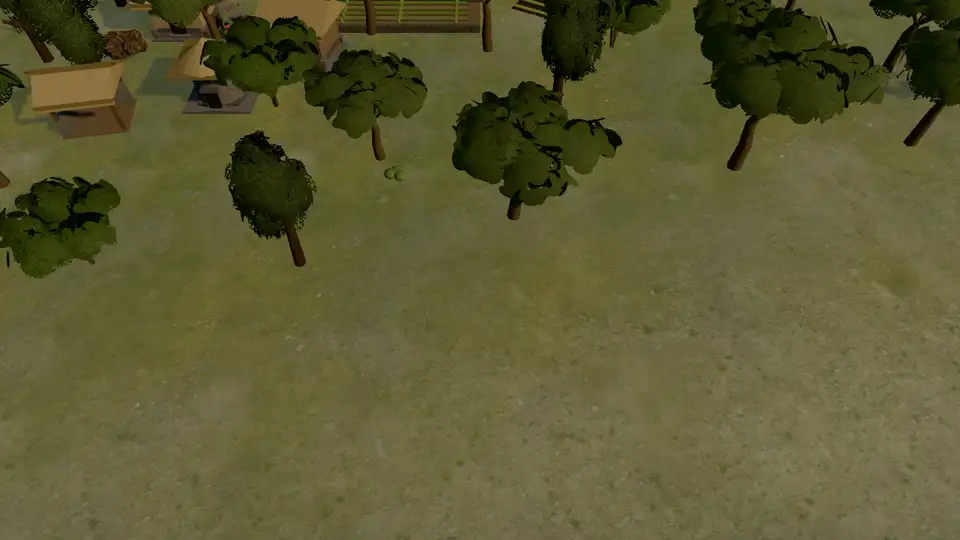
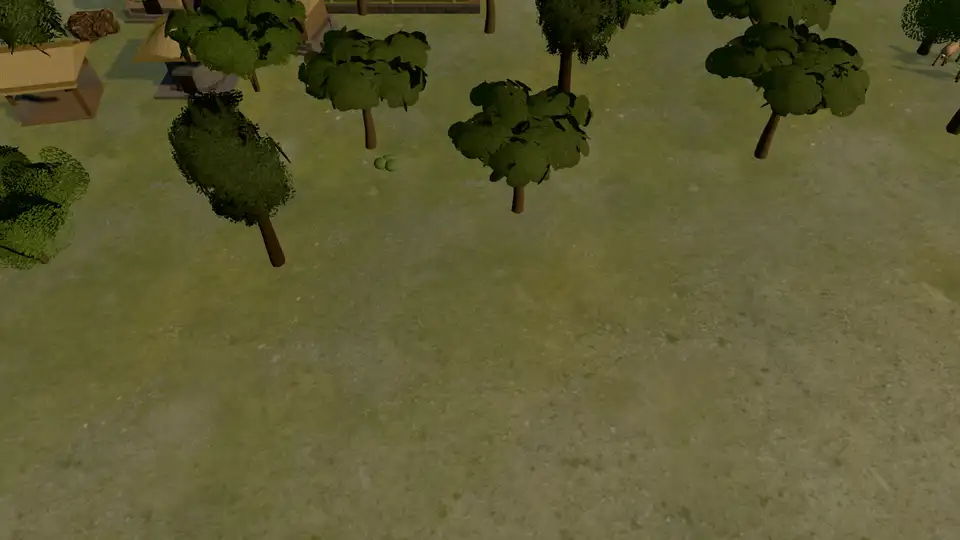
fix(tambotoco): fit the E3a kit under the unchanged scene caps
The E2b late scene already sat at the cap, so the highland kit needed an
offset. The pilot pays for it from its own ground cover: Tambotoco drops
to a 0.08 ichu stand (1,280 tufts) and the kit LOD0 radius is 14 m. The
pebble/gravel species leave the budget; E3b restores rock detail as props.

Both gates now pass without raising a cap:
- structural 422,864/273 opening and 630,750/356 late (kit 9,352/9 and
  34,306/12);
- frames scene 448,194/269 (34 FPS) and 656,578/359 (31 FPS).
The complete render still adds the shadow and refraction passes.

Evidence recaptured as e3a8; docs share the measured numbers.

Changed region(s): [[0.0, 0.0, 1.0, 0.5333], [0.9688, 0.5037, 1.0, 0.5333], [0.6875, 0.6222, 0.7188, 0.6519]]

diff --git a/tests/campaign-profiles.test.ts b/tests/campaign-profiles.test.ts
@@ -101,8 +101,8 @@ describe('campaign map profiles', () => {
     expect(map.vegetation.variants.pacay).toBeGreaterThan(0);
     expect(map.vegetation.variants.broad ?? 0).toBe(0);
     expect(map.vegetation.variants.needle ?? 0).toBe(0);
-    // E3a keeps the E2b ground-cover budget and only changes the species mix.
-    expect(map.vegetation.groundCover).toBe(0.2);
+    // E3a trims the instance budget to fund the kit and shifts the mix to ichu.
+    expect(map.vegetation.groundCover).toBe(0.08);
     expect(map.vegetation.groundCoverWeights?.ichu).toBeGreaterThan(map.vegetation.groundCoverWeights?.grass ?? 0);
   });
 

diff --git a/src/campaign/defs/missions/m_tambotoco.ts b/src/campaign/defs/missions/m_tambotoco.ts
@@ -58,8 +58,8 @@ export const mTambotoco: MissionDef = {
     vegetationKit: 'andes',
     vegetation: {
       density: 0.22,
-      groundCover: 0.2,
-      groundCoverWeights: { grass: 0.7, ichu: 1.6, pebble: 0.15, gravel: 0.15 },
+      groundCover: 0.08,
+      groundCoverWeights: { grass: 0, ichu: 1.6, pebble: 0, gravel: 0 },
       variants: { molle: 0.55, pacay: 0.25, sauce: 0.2, broad: 0, needle: 0 },
     },
     resources: { tree: 0.22 },

diff --git a/src/rendering/vegetationKit.ts b/src/rendering/vegetationKit.ts
@@ -104,7 +104,7 @@ export const VEGETATION_PACKS: Record<VegetationPack, VegetationPackDef> = {
     trees: KIT_TREE_VARIANTS_ANDES,
     props: KIT_PROPS_ANDES,
     nearLeafShadows: true,
-    lod0Radius: { high: KIT_LOD0_RADIUS_ANDES, low: KIT_LOD0_RADIUS_ANDES },
+    lod0Radius: { high: 14, low: 14 },
   },
 };
 

diff --git a/docs/design/tambotoco-art-pilot.md b/docs/design/tambotoco-art-pilot.md
@@ -48,7 +48,7 @@ Baseline: `a0352d5`, seed 777, 1600×900, `sitePhase=fundada`, acequia open, HUD
 | **Landscape** | Flat olive ground with visible tiling, teal water ribbon, identical low-poly trees, neon crop rows, scattered rocks. | No terrain layers, no vegetation groups, no atmospheric depth. The Caral vegetation kit is coastal and does not cover the highlands. | `cusco_valley` palette and layers; highland vegetation kit; clustered placement; water/path pass. |
 | **Light and materials** | Ambient-heavy, weak contact shadows, no ground shadows, flat stone and plaster. | The custom terrain `ShaderMaterial` declared `lights: false`, so the ground never received directional shadows (B11). Materials have micro-detail but no macro scale and little roughness break. | **B11 fixed in E1** (terrain samples the shadow map, low morning sun); vertex AO and macro maps still open. |
 | **Presentation** | The opening and act cards are in-engine but framed as aerial views; Inticancha reads as the same disc with more props. | No shot grammar; the foundation lacks a reward moment. | Re-frame the three beats; wide/detail/hero shots; foundation phase + camera + life. |
-| **Performance** | Pre-E1 baseline: 436,880/265 and 608,324/347. Caps: 500k/280 and 660k/360. E3a structural: **425,066 / 271** and **634,794 / 356** (kit 11,554/7 and 38,350/12). High-quality frames: 475,434/270 (34 FPS) and 685,660/362 (33 FPS); frames mode includes the post-processing/refraction passes, so the structural caps are the gate. `dist` is 23.22 / 25 MB. | Draw calls exceed the general ≤200 target. High quality runs at 33 FPS late on the iGPU, so the governor steps down below its 45 FPS window; low/medium stay above 30. `dist` has 1.78 MB of headroom. | The andes kit adds 11.6k/38.4k kit triangles; the high-quality late frame is over the structural count in frames mode (not the structural gate). E3b–E4 must keep the governor, LOD radius and kit caps honest. Do not raise scene caps. |
+| **Performance** | Pre-E1 baseline: 436,880/265 and 608,324/347. Caps: 500k/280 and 660k/360. E3a structural: **422,864 / 273** and **630,750 / 356** (kit 9,352/9 and 34,306/12). High-quality frames scene: 448,194/269 (34 FPS) and 656,578/359 (31 FPS); both are under the caps too. The complete render adds the shadow and refraction passes. `dist` is 23.22 / 25 MB. | Draw calls exceed the general ≤200 target. High quality runs at 31 FPS late on the iGPU, so the governor steps down below its 45 FPS window; low/medium stay above 30. `dist` has 1.78 MB of headroom. | The andes kit adds 9.4k/34.3k kit triangles; both structural and frames scene counts stay under the unchanged caps. E3b–E4 must keep the governor, LOD radius and kit caps honest. Do not raise scene caps. |
 | **Documentation** | `art-direction.md` was Caral-first; `campaign-quality-bar.md` and `tambotoco-model-mission.md` gave different performance numbers; “Visuals: Met” certified presence, not quality. | No Tambotoco standard and no measurable visual gate. | This pilot, the rewritten art direction and the reconciled quality bar. |
 
 The 2026-11-16 kit pass was a real improvement: coursed stone, thatch houses, qollqas, terraced fields and a
@@ -175,7 +175,7 @@ The pilot is approved only when all of these are true:
 | Cave mouth and rock ring | Blender GLB (E2b) | Implemented, procedural fallback | LOD0 1,802 / LOD1 342 | `tambotocoHeroKit` + `AylluSite`; source in `art-src` |
 | Huanacaure monolith | Blender GLB (E2b) | Implemented, procedural fallback | LOD0 288 / LOD1 104 | Tapered huaca with a carved niche; fallback kept |
 | Highland trees and shrubs | Blender vegetation kit | **Implemented (E3a)** | Molle 1.5k/400, pacay 1.1k/320, ichu 220/60 | Molle/pacay/sauce trees; ichu GLB built and budgeted but not attached; reeds shared |
-| Ground cover | Procedural | Partial | Existing | Ichu-heavy species mix on the E2b instance budget |
+| Ground cover | Procedural | Partial | Existing | Ichu stand on a trimmed 0.08 budget (1,280 tufts) to fund the kit |
 | Rock outcrops | Blender prop kit | Partial (Caral granodiorite) | 300 / — | Build an andes stone kit; instance |
 | Water | `Water.ts` shader | Implemented | Existing | Cold palette, depth gradient, soft banks |
 | Paths | Terrain paint + stones | Implemented | Existing | Embedded stone, soft edges; remove the ladder look |
@@ -254,7 +254,7 @@ Priorities are ordered by visual impact per engineering day. Each item includes 
 | **E0** | This document, `art-direction.md`, `capture_art_pilot.mjs`, baseline set, quality-bar reconciliation | **Done (2026-11-16):** docs links and baseline set |
 | **E1** | B11, palette, water, plaza | **Partial (2026-11-16):** shadows on ground, low morning sun, straw/stone palette, single-rim plaza, bench 437,976/264 and 614,594/357; macro/AO and ground cover move to E2–E3 |
 | **E2** | Architecture materials/geometry; hero GLB decision | **E2a done (2026-11-17):** AO/macro, battered walls, thatch eave, qollqa footing/vent; bench 438,856/269 and 615,532/354. Acceptance: no box read at 28/54; ≤4 materials per building. **E2b done (2026-11-17):** cave and huaca GLBs, fallback and LODs; bench 430,488/269 and 613,692/354 |
-| **E3** | Highland vegetation kit, rocks, paths | **E3a done (2026-11-17):** molle/pacay/ichu kit (1,362/360, 1,048/316, 144/42 tris), andes pack, 18 m LOD0 radius, ichu-heavy ground-cover mix at the E2b budget; bench **425,066/271** and **634,794/356** (kit 11,554/7 and 38,350/12). Acceptance: no invented species (inferred, sourced), LOD1 footprint stable. **E3b pending:** water soft banks/ford, embedded-stone paths, rocks |
+| **E3** | Highland vegetation kit, rocks, paths | **E3a done (2026-11-17):** molle/pacay/ichu kit (1,362/360, 1,048/316, 144/42 tris), andes pack, 14 m LOD0 radius, ichu stand on a trimmed 0.08 cover budget; bench **422,864/273** and **630,750/356** (kit 9,352/9 and 34,306/12). Acceptance: no invented species (inferred, sourced), LOD1 footprint stable. **E3b pending:** water soft banks/ford, embedded-stone paths, rocks |
 | **E4** | Hero + common unit | Manco distinct at 54; budget; other campaigns unchanged |
 | **E5** | Cinematic beats and foundation | Shot grammar; no new system |
 | **E6** | 3 × 3 validation, bench, provenance, docs, review | `yarn verify:fast`, `bench:check`, `art:validate`, `dist:check`, human approval |
@@ -309,11 +309,11 @@ Recorded 2026-11-16:
 | 2026-11-17 | `node scripts/bench_scene.mjs --mission=m_tambotoco --stage=late --gpu --frames --quality=high --assert --out=review/bench-scene-tambotoco-e2b-late-frames.json` | Late: **34 FPS** (29.2 ms p50), **656,940 / 360** (at the cap) |
 | 2026-11-17 | `blender --background --python scripts/blender/build_andes_vegetation_kit.py` | Molle LOD0 1,362 / 360 tris, pacay 1,048 / 316, ichu 144 / 42; manifests in `art-src/blender/exports/tambotoco/vegetation/` |
 | 2026-11-17 | `yarn art:models --only=…andes…` | Six GLBs, **≈216 KB** total after meshopt |
-| 2026-11-17 | `yarn art:pilot --tag=e3a7 --quality=neutral --sizes=1600x900 --views=wide,trees,hualla` | E3a PNGs; published as `docs/media/tambotoco-e3a-{wide,trees}-{before,after}.webp` |
-| 2026-11-17 | `node scripts/bench_scene.mjs --mission=m_tambotoco --assert --out=review/bench-scene-tambotoco-e3a-final.json` | Opening **425,066 tris / 271 calls** (cap 500k/280); kit 11,554/7 |
-| 2026-11-17 | `node scripts/bench_scene.mjs --mission=m_tambotoco --stage=late --assert --out=review/bench-scene-tambotoco-e3a-late-final.json` | Founded Inticancha **634,794 tris / 356 calls** (cap 660k/360); kit 38,350/12 |
-| 2026-11-17 | `node scripts/bench_scene.mjs --mission=m_tambotoco --gpu --frames --quality=high --assert --out=review/bench-scene-tambotoco-e3a-frames3.json` | Intel RPL-S iGPU, high: **34 FPS** opening (29.8 ms p50); frames mode 475,434 / 270 |
-| 2026-11-17 | `node scripts/bench_scene.mjs --mission=m_tambotoco --stage=late --gpu --frames --quality=high --assert --out=review/bench-scene-tambotoco-e3a-late-frames3.json` | Late: **33 FPS** (30.2 ms p50); frames mode 685,660 / 362 |
+| 2026-11-17 | `yarn art:pilot --tag=e3a8 --quality=neutral --sizes=1600x900 --views=wide,trees,hualla` | E3a PNGs; published as `docs/media/tambotoco-e3a-{wide,trees}-{before,after}.webp` |
+| 2026-11-17 | `node scripts/bench_scene.mjs --mission=m_tambotoco --assert --out=review/bench-scene-tambotoco-e3a-final.json` | Opening **422,864 tris / 273 calls** (cap 500k/280); kit 9,352/9 |
+| 2026-11-17 | `node scripts/bench_scene.mjs --mission=m_tambotoco --stage=late --assert --out=review/bench-scene-tambotoco-e3a-late-final.json` | Founded Inticancha **630,750 tris / 356 calls** (cap 660k/360); kit 34,306/12 |
+| 2026-11-17 | `node scripts/bench_scene.mjs --mission=m_tambotoco --gpu --frames --quality=high --assert --out=review/bench-scene-tambotoco-e3a-frames3.json` | Intel RPL-S iGPU, high: **34 FPS** opening (29.5 ms p50); frames mode 448,194 / 269 |
+| 2026-11-17 | `node scripts/bench_scene.mjs --mission=m_tambotoco --stage=late --gpu --frames --quality=high --assert --out=review/bench-scene-tambotoco-e3a-late-frames3.json` | Late: **31 FPS** (32.1 ms p50); frames mode 656,578 / 359 |
 | pending | `yarn art:pilot --tag=after --quality=neutral --sizes=1280x720,1600x900,1920x1080` | E6 evidence |
 | pending | `yarn art:pilot --tag=after --quality=final --sizes=1280x720,1600x900,1920x1080` | E6 evidence |
 

diff --git a/docs/design/campaign-quality-bar.md b/docs/design/campaign-quality-bar.md
@@ -441,11 +441,11 @@ approved.
 | Onboarding  | Met: six-step tutorial that teaches controls (move, camp store, hunt, visit, water, canchas), briefing with the eight siblings and Codex.                                |
 | Closure     | Met: the epilogue tells the foundation as tradition and names both versions; no counterfactual is hidden.                                                                |
 | UX          | Met: campaign layout at 1600×900, the eight-card briefing at 1280×720, a left dialogue dock above the minimap, portrait chips for a selected cast, a large-screen HUD scale at 1920×1080 and `hud-layout.spec.ts`. |
-| Visuals     | Met (E3a): 256 m transect, the modular terrain-conformed ayllu kit (coursed stone, thatch houses, qollqas, terraced fields, paved plaza at grade), contact AO/macro colour, battered walls and a layered thatch eave, the cave and Huanacaure huaca GLBs, the highland molle/pacay kit (ichu built for the ground-cover mix) with an 18 m LOD0 radius, plus the approved EEVEE intro render (`m_tambotoco-intro`). E3b–E6 of the art-direction pilot ([`tambotoco-art-pilot.md`](./tambotoco-art-pilot.md)) are pending; it is a quality gate, not a rebuild. |
+| Visuals     | Met (E3a): 256 m transect, the modular terrain-conformed ayllu kit (coursed stone, thatch houses, qollqas, terraced fields, paved plaza at grade), contact AO/macro colour, battered walls and a layered thatch eave, the cave and Huanacaure huaca GLBs, the highland molle/pacay kit (ichu ground-cover stand at a trimmed budget) with a 14 m LOD0 radius, plus the approved EEVEE intro render (`m_tambotoco-intro`). E3b–E6 of the art-direction pilot ([`tambotoco-art-pilot.md`](./tambotoco-art-pilot.md)) are pending; it is a quality gate, not a rebuild. |
 | Persistence | Met: save/load round-trip in `save-campaign.spec.ts`.                                                                                                                    |
 | Tests       | Met: `tests/tambotoco.test.ts` (cast, tags, huaca beats), scale, campaign path and the campaign E2E specs.                                                               |
 | Docs        | Met: dossier, `tambotoco-model-mission.md`, this table and the redesign status.                                                                                          |
-| Performance | Met (measured 2026-11-17; E3a): software `bench:check` structural opening **425,066 tris / 271 calls** and founded Inticancha **634,794 / 356** (vegetation kit 11,554/7 and 38,350/12); the pre-E1 baseline was 436,880/265 and 608,324/347, E1 measured 437,976/264 and 614,594/357, E2a 438,856/269 and 615,532/354, and E2b 430,488/269 and 613,692/354. Hardware high (Intel RPL-S iGPU) frames mode: **475,434 / 270** opening and **685,660 / 362** late (post-processing/refraction included; the structural counts 634,794 / 356 are the cap). The opening cap is **500k / 280** (ratcheted from 600k/340) and the late cap stays **660k / 360**, both met without raising them. The pass batched contact shadows into one instanced draw, merged the site by surface family per phase, cut the inland water grid and trimmed the dry-puna ground cover; E1 added the terrain shadow sample and trimmed the late plaster/earth/rock/wood casters; E2a baked contact AO/macro colour, battered walls, a thatch eave and qollqa details; E2b ships 2,090 cave/huaca GLB triangles for 1,196 procedural (the ~8k structural drop is culling after the cave leaves the merged cave-phase mesh) in ≈103 KB; E3a adds the molle/pacay/ichu kit (≈216 KB, inferred) and limits highland kit shadow casting to the near canopy. Frame time at high quality with post-processing on: **34 FPS** opening and **33 FPS** late (29.8 / 30.2 ms p50). `node scripts/bench_scene.mjs --mission=m_tambotoco [--stage=late] [--gpu] --assert` is the gate. |
+| Performance | Met (measured 2026-11-17; E3a): software `bench:check` structural opening **422,864 tris / 273 calls** and founded Inticancha **630,750 / 356** (vegetation kit 9,352/9 and 34,306/12); the pre-E1 baseline was 436,880/265 and 608,324/347, E1 measured 437,976/264 and 614,594/357, E2a 438,856/269 and 615,532/354, and E2b 430,488/269 and 613,692/354. Hardware high (Intel RPL-S iGPU) frames mode: **448,194 / 269** opening and **656,578 / 359** late (the shadow/refraction passes add to the complete frame; the scene counts 630,750 / 356 are what the caps ratify). The opening cap is **500k / 280** (ratcheted from 600k/340) and the late cap stays **660k / 360**, both met without raising them. The pass batched contact shadows into one instanced draw, merged the site by surface family per phase, cut the inland water grid and trimmed the dry-puna ground cover; E1 added the terrain shadow sample and trimmed the late plaster/earth/rock/wood casters; E2a baked contact AO/macro colour, battered walls, a thatch eave and qollqa details; E2b ships 2,090 cave/huaca GLB triangles for 1,196 procedural (the ~8k structural drop is culling after the cave leaves the merged cave-phase mesh) in ≈103 KB; E3a adds the molle/pacay/ichu kit (≈216 KB, inferred) and limits highland kit shadow casting to the near canopy. Frame time at high quality with post-processing on: **34 FPS** opening and **31 FPS** late (29.5 / 32.1 ms p50). `node scripts/bench_scene.mjs --mission=m_tambotoco [--stage=late] [--gpu] --assert` is the gate. |
 | Art         | Met: approved authored EEVEE intro render; the ayllu kit stays procedural; captures are in-engine and documented in PROVENANCE.                                          |
 | Structure   | Met: four acts with hidden objectives, three chapter cards and the documented foundation.                                                                                |
 | Opening     | Met: three narrated beats with in-engine captures, three act cards and the epilogue backdrop.                                                                            |

diff --git a/docs/design/tambotoco-model-mission.md b/docs/design/tambotoco-model-mission.md
@@ -251,19 +251,19 @@ Tambotoco is the reference scene for the stylized-realism standard ([`art-direct
 The 2026-11-16 kit pass is the baseline; the next pass is the art-direction pilot
 ([`tambotoco-art-pilot.md`](./tambotoco-art-pilot.md)): terrain shadows (B11, fixed in E1), `cusco_valley`
 palette (E1), architecture finish with contact AO/macro colour and battered walls (E2a), cave and Huanacaure
-huaca GLBs with a procedural fallback (E2b), highland molle/pacay kit and ichu ground-cover mix (E3a) and an opt-in Tambotoco
+huaca GLBs with a procedural fallback (E2b), highland molle/pacay kit and an ichu ground-cover stand (E3a) and an opt-in Tambotoco
 hero variant (E4). The pilot runs E0–E6 and does not rebuild the mission, its layout or its economy. Production
 (E7) waits for a human approval of the reference captures.
 
 ## Open items
 
-1. Performance (measured 2026-11-17; E3a numbers): software (SwiftShader) measures **425,784 triangles /
-   271 draw calls** at the opening and **634,794 / 356** on the founded Inticancha (vegetation kit 11,554/7 and
-   38,350/12); the pre-E1 baseline was 436,880 / 265 and 608,324 / 347, E1 measured 437,976 / 264 and
+1. Performance (measured 2026-11-17; E3a numbers): software (SwiftShader) measures **422,864 triangles /
+   273 draw calls** at the opening and **630,750 / 356** on the founded Inticancha (vegetation kit 9,352/9 and
+   34,306/12); the pre-E1 baseline was 436,880 / 265 and 608,324 / 347, E1 measured 437,976 / 264 and
    614,594 / 357, E2a 438,856 / 269 and 615,532 / 354, and E2b 430,488 / 269 and 613,692 / 354. E3a hardware
-   (`--gpu`, Intel RPL-S iGPU, high) measures **475,434 / 270** opening and **685,660 / 362** late in frames mode
-   (post-processing/refraction included; structural late 634,794 / 356). Frame time at high quality with
-   post-processing on: **34 FPS** opening and **33 FPS** late (29.8 / 30.2 ms p50).
+   (`--gpu`, Intel RPL-S iGPU, high) measures **448,194 / 269** opening and **656,578 / 359** late in frames mode
+   (the scene pass; the complete render adds the shadow/refraction passes; structural late 630,750 / 356).
+   Frame time at high quality with post-processing on: **34 FPS** opening and **31 FPS** late (29.5 / 32.1 ms p50).
    The opening cap is now **500k / 280** (ratcheted from 600k/340); the late cap stays
    **660k / 360** and is met without raising it. The pass batched every entity contact shadow into one
    instanced draw, merged the site by surface family per phase (instead of one mesh for the whole 256 m

diff --git a/PROVENANCE.md b/PROVENANCE.md
@@ -191,10 +191,10 @@ slot is absent (offline / without assets).
 - **Source**: captured from the game by `scripts/capture_art_pilot.mjs` at 1600x900, seed 777, HUD hidden,
   site at `fundada`, fog of war off. `before` is the E2b scene at `ae9e489`; `after` is the andes kit.
   Regenerate the after set with
-  `yarn art:pilot --tag=e3a7 --quality=neutral --sizes=1600x900 --views=wide,trees,hualla`; the before
+  `yarn art:pilot --tag=e3a8 --quality=neutral --sizes=1600x900 --views=wide,trees,hualla`; the before
   trees use the same view and script checked out at `ae9e489`.
 - **Content**: in-engine shots of the game's own scene. The highland tree kit is project-owned and
-  `confidence: inferred`; the ichu ground cover is the procedural instancer at the E2b budget.
+  `confidence: inferred`; the ichu ground cover is the procedural instancer at a trimmed 0.08 budget.
 - **Review**: no human art-review gate applies to in-engine captures; the kit is reviewed through this PR.
 
 ### Caral fauna kit (deer, riparian bird)

diff --git a/docs/design/art-direction.md b/docs/design/art-direction.md
@@ -286,9 +286,10 @@ Targets for the default view at 1600×900:
 `scripts/bench_scene.mjs` are **500k triangles / 280 draw calls** at the opening and **660k / 360** in the
 late founded settlement. The pilot must stay inside them. Prefer a neutral pass; a measured increase is
 acceptable only when it buys a visible improvement and the frame-time target still holds. E3a: opening
-**425,066 / 271** (vegetation kit 11,554/7) and late **634,794 / 356** structural (kit 38,350/12);
-**34 / 33 FPS** at high quality on the integrated GPU, frames mode over the structural count late because it
-includes the post-processing/refraction passes. Do not raise a cap to hide a regression.
+**422,864 / 273** (vegetation kit 9,352/9) and late **630,750 / 356** structural (kit 34,306/12);
+**34 / 31 FPS** at high quality on the integrated GPU; both the structural and frames scene counts stay
+under the caps. The complete render adds the shadow and refraction passes. Do not raise a cap to hide a
+regression.
 
 Asset budgets:
 
